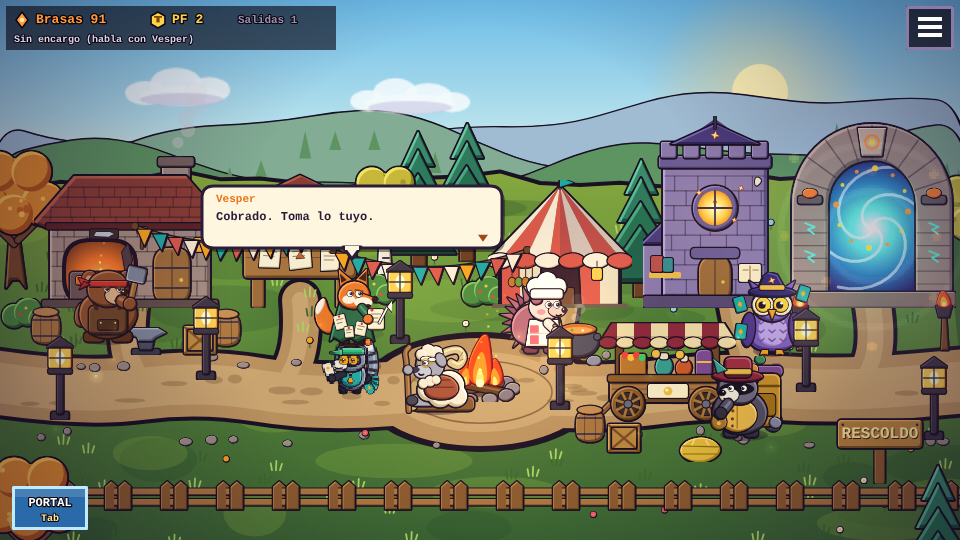
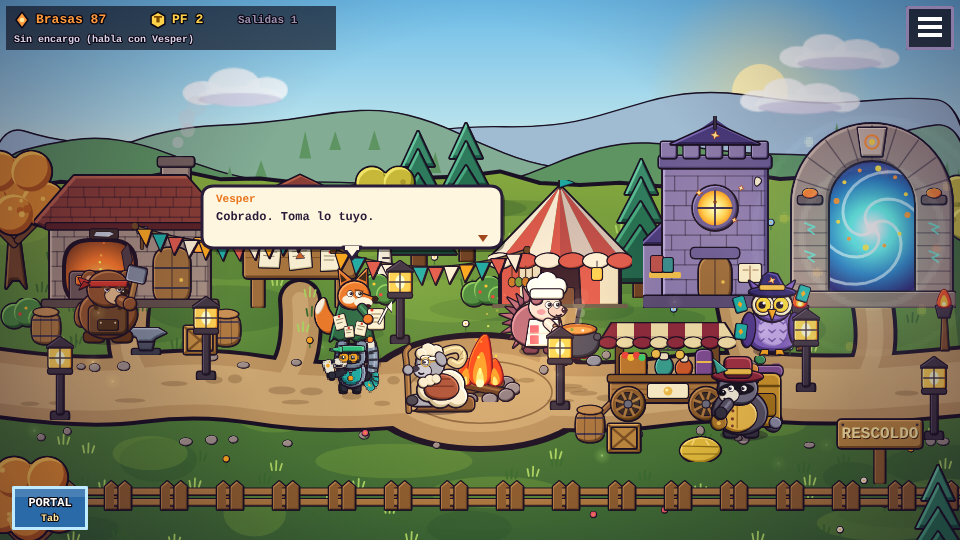
Swarm Hand: Fase 2a (aldea Rescoldo, árbol de Fuego, encargos, trueque, economía v2)
Claude-Session: https://claude.ai/code/session_01SEMe6xkUsnkQXVwvcKxXxh

diff --git a/games/card-swarm/src/loot.js b/games/card-swarm/src/loot.js
@@ -42,15 +42,14 @@
   L.RANK_MUL = [1, 1, 1.08, 1.16];   // multiplicador por rango de forja (0 bloqueada, I, II, III): +8 % por rango
   L.MAXRANK = 3;
 
-  // Suministro ESPERADO de cada parte por expedición estándar de 9:00, medido con el bot de pruebas (16 runs, ?speed=25 ?god=1, jugador que
-  // llega al jefe y lo mata; ~350 partes/run: 7 min = 78 %, 10 min = 110 %). La receta se expresa como fracción de ese suministro.
-  // v3: x0,42 (drops de 12-15 %). Con el bot (ver README) la Mecha de 9 min sale ~13, 7 min ~10.
+  // Suministro ESPERADO de cada parte por expedición estándar de 9:00 (v3: valores originales x0,42, ver DESIGN-v3-aldea.md C.3). Las recetas planas ("Clásica")
+  // se expresan como fracción de este suministro; los nodos del árbol usan L.NODE_TIER (cifras absolutas).
+  // MEDIDO con el bot (?speed=25 ?god=1, jugador que recoge partes y mata al jefe; 16 runs de 7 min, 10 de 9 min, política "build mínima primero"):
+  //   7 min: ~119 partes/run, Mecha 9,5 (objetivo 8-12), Hebra 52, Esencia ~2,1 (el Pastor da 1 segura), Brasas ~254.
+  //   9 min: ~148 partes/run, Mecha 12,8, Hebra 66, Esencia ~2,2, Brasas ~314. Un jugador real (se muere antes, recoge menos) saca ~x0,7.
+  //   Build mínima de Fuego (Chispa II, Bola de brasa, Rango II, Manto, Bola II = 6 PF, 52 Mecha): completa tras la 5.ª expedición del bot (6-7 con jugador real).
+  //   Árbol de Fuego completo (20 PF, ~170 Mecha): 15.ª expedición. Brasas sobran en esta fase (solo hay un árbol); Esencias tampoco limitan.
   L.EXPECT = { thread: 67, feather: 15, spine: 18, fang: 9, plate: 6, wick: 13, frost: 5.5, static: 7.6, rare: 1 };
-  // CUENTA ESPERADA (por qué salen 3-4 runs). La build "Tormenta tóxica" (Chispazo c + Tormenta e + Nube r + Bilis r + Cascabel r, todas por forjar)
-  // pide Jirón (static) 56 = 3.1 x el suministro de 18/run y Púa 93 = 2.2 x 43/run, más Hebra y Esencia sueltas: la parte limitante manda,
-  // ~3.1-3.5 runs medias + dispersión de los drops. Medido con el bot completo (forjando en el bucle, 24 builds): 5 forjas = 3.61 runs de media
-  // (todas entre 3 y 4), 4 forjas = 2.67. Brasas (~460/run) y Esencia (~5/run) NO limitan; limitan Jirón, Mecha, Placa y Púa según la build.
-  // Una run de 7 min da ~78 % de ese suministro y una de 10 min ~110 %. Un jugador que muera antes del jefe saca bastante menos (ver README).
 
   // Rareza de cada carta (c común, r rara, e épica). Las 6 iniciales (set básico) son gratis y solo cuestan sus mejoras de rango.
   L.TIER = {

diff --git a/games/card-swarm/src/base.js b/games/card-swarm/src/base.js
@@ -56,11 +56,11 @@
     G.txt(c, '+' + sm.brasas + ' Brasas   (total ' + S.brasas + ')', 548, 262, 16, '#ff9a3c', 'left');
     if (sm.rare) G.txt(c, '¡Esencia rara conseguida!', 516, 286, 13, '#e0a8ff', 'left');
     else G.txt(c, 'Prob. de Esencia rara: ' + ((L.RARE_P + S.pity) * 100).toFixed(1) + '%', 516, 286, 12, '#9a8fb0', 'left');
-    if (sm.quest) G.txt(c, 'Encargo: ' + sm.quest, 516, 304, 12, '#ffe9a0', 'left');
+    if (sm.quest) U.wrap(c, 'Encargo: ' + sm.quest, 410, 11).slice(0, 2).forEach(function (ln, k) { G.txt(c, ln, 516, 302 + k * 13, 11, '#ffe9a0', 'left'); });
     if (sm.pfGained) G.txt(c, '+' + sm.pfGained + ' Punto de Forja (primer élite)', 730, 286, 12, '#ffd24a', 'left');
-    G.txt(c, sm.newCards.length ? 'NUEVAS CARTAS YA FORJABLES (Clásica)' : 'PF libres ' + G.Tree.pfFree() + '  -  nodos comprables ' + G.Tree.availableCount(), 516, 322, 13, sm.newCards.length ? '#9dffb4' : '#9a8fb0', 'left');
+    G.txt(c, sm.newCards.length ? 'NUEVAS CARTAS YA FORJABLES (Clásica)' : 'PF libres ' + G.Tree.pfFree() + '  -  nodos comprables ' + G.Tree.availableCount(), 516, 336, 13, sm.newCards.length ? '#9dffb4' : '#9a8fb0', 'left');
     sm.newCards.slice(0, 6).forEach(function (id, k) {
-      G.Cards.drawCard(c, { id: id, lvl: 0 }, 516 + k * 68, 338, 56, 74, { nocd: true, glow: '#9dffb4' });
+      G.Cards.drawCard(c, { id: id, lvl: 0 }, 516 + k * 68, 348, 56, 74, { nocd: true, glow: '#9dffb4' });
     });
     U.button(c, END_RETRY, 'REINTENTAR MISMO BUILD', { size: 22, sub: 'R / Enter  -  anclas: ' + (S.anchors.map(function (a) { return G.Cards.def(a).short; }).join(' + ') || 'ninguna') });
     U.button(c, END_BASE, 'IR A LA ALDEA', { size: 22, color: '#2a6aa8', hot: '#3a8ad0', border: '#bfeaff', sub: 'B  -  forjar, encargos y anclas' });

diff --git a/games/card-swarm/README.md b/games/card-swarm/README.md
@@ -12,21 +12,49 @@ python3 -m http.server 8123
 ```
 (También funciona abriendo `index.html` directamente.)
 
-## Bucle completo (Fase 1 de crafteo)
-**Base -> Expedición -> Botín -> Forja -> Expedición.** La pantalla de título es ahora la **Base** (una página): colección de las 26 cartas (6 desbloqueadas de inicio: Chispa, Esquirla,
-Dardo, Daga, Colmillo, Reloj), forja con recetas, Rango I-III, 2 anclas, selector de duración y "SALIR A LA EXPEDICIÓN" (Enter). Repetir con el mismo loadout son 1-2 clics
-("REINTENTAR MISMO BUILD" en la pantalla de botín, o R / Enter). Todo se guarda solo en `localStorage` (`swarmhand.save`, esquema v1; botón BORRAR PROGRESO con doble pulsación).
-- **Anclas (Opción B híbrida):** la expedición parte con `G.B.anchorSlots = 2` cartas elegidas de tu colección ya en la mano; los otros 3 slots se llenan al subir de nivel con
-  ofertas aleatorias **solo de tus cartas desbloqueadas**. Cambiar a 3 anclas = cambiar ese número. Sin ningún arma entre las anclas, se ofrece la elección inicial de siempre.
-- **Duración:** selector 7 / 9 / 10 min en la Base (`?len=N` lo fuerza). `G.setLen()` escala jefe (a 5/6 de la run), élites, entrada de enemigos, curva del director, escalado de HP/daño
-  y Furia mediante `G.vt()` (tiempo "virtual" en escala de 9:00): una run corta es la misma curva comprimida y da menos botín (~78 % a 7 min, ~110 % a 10).
-- **Partes:** 8 comunes (Hebra, Pluma, Púa, Colmillo, Placa, Mecha, Escarcha, Jirón; 30-35 % por muerte según enemigo) + Esencia rara (3,5 % en Espectro/Ascua/Brujo, pity +1,5 % por run
-  sin rara, 35 % en élites, 1 segura del Pastor). Élites y jefe tienen partes garantizadas. Se recogen con el imán o se auto-recogen al terminar. El HUD muestra "Partes N".
-- **Brasas:** 20 % de la Ceniza sobrante + 15 por minuto jugado (+40 si ganas). Se gastan en recetas.
-- **Forja:** desbloquear carta (receta de 2-3 tipos de parte + Brasas; épicas piden Esencia) y subir Rango I -> II -> III (permanente): **+8 % de daño por rango, por carta**
-  (las pasivas escalan su efecto igual). Se multiplica con el -2 % global `cardDmgMul`.
-- **Balance de la meta:** todo en `src/loot.js` (drops, suministro esperado por run, costes por rareza, justificación de "3-4 runs" para la primera build completa).
-- Quedan fuera (Fases 2-3): sets/bonos, gemas, talismán, encargos, desmontar, partir partes. Ver `PROPUESTA-crafteo.md`.
+## Bucle completo (v3: Aldea, Fase 2a)
+**Aldea -> Portal -> Expedición -> Botín (R = repetir sin pasar por la aldea) -> Aldea.** La pantalla principal es **Rescoldo** (`src/aldea.js`), una aldea caminable de una pantalla
+(960x540, escala a cualquier tamaño). Marlo se mueve con WASD / flechas (o el joystick táctil flotante de la mitad izquierda), interactúa con **E / Enter** (o el botón táctil
+HABLAR de 96 px) a menos de 56 px de un NPC, y viaja al Portal con **Tab** (o el botón PORTAL) con un fundido de 0,3 s. Colisiones con los rectángulos de `Assets.VILLAGE.colliders`
+y los límites de la zona caminable. Esc abre el menú (Colección, Ajustes, Borrar progreso con doble pulsación). El arte viene de `assets_village.js` (`Assets.drawVillage`);
+si no existe, se dibuja un fallback de rectángulos. Luz: Día al abrir o tras ganar, Ocaso tras una derrota.
+- **Grum (herrero):** abre la **Forja** (`src/tree.js`), un árbol por pestañas: **Fuego** (12 nodos completos), **Tronco** (Rango de forja II/III, Ceniza viva, Tercera ancla,
+  Pezuñas/Imán/Alforja) y **Clásica** (recetas planas rebalanceadas para las cartas de Hielo, Rayo, Veneno, Sangre, Acero y el Reloj; los demás árboles llegan en la Fase 2b).
+- **Vesper (encargos):** Tablón con 3 encargos fijos (tutorial "Huele a chamusquina": 20 Bombas -> 6 Mecha + 40 Brasas + 1 PF; 40 Polillas; el Coloso Escudero). Solo uno activo; el progreso
+  persiste entre expediciones y se ve en el HUD de la run. El enemigo objetivo pesa **x2,5** en el director (`waves.js`) y su entrada se adelanta a 2:30 virtuales. Son repetibles.
+- **Rufo (mercader):** **Trueque** (3 partes comunes por 1; Hebra 6 por 1; cupo de 4 por expedición, se reinicia al volver de una salida), **Vender** (6 Brasas por parte, Hebra 3) y
+  **Comprar** (Tónico de ceniza 80: +40 Ceniza; Imán de bolsillo 120: radio x1,5; parte común 24, cupo 3). Las raras no se truecan ni se venden.
+- **Portal:** mano al salir (anclas), selector 7 / 9 / 10 min, encargo activo, compras pendientes y SALIR. Tras el botín: R reintenta el mismo build, B vuelve a la aldea.
+- **Ulalume (provisional):** colección de las 26 cartas y anclas (hasta que la Fase 2b añada loadouts). **Abuelo Lanudo** y **Tía Castaña**: diálogos de ambiente.
+- **Anclas:** `G.B.anchorSlots` = 2 (3 con el nodo Tercera ancla). Se eligen en el Archivo de Ulalume o en el Portal. Los otros slots se llenan al subir de nivel con cartas desbloqueadas.
+- **Duración:** 7 / 9 / 10 min (`?len=N` lo fuerza). `G.setLen()` escala jefe, élites, entrada de enemigos, curva del director, HP/daño y Furia mediante `G.vt()`.
+
+### Árbol de forja y Puntos de Forja (PF)
+- Cada nodo cuesta **PF + partes + Brasas** (tabla `L.NODE_TIER` en `loot.js`: T1 1 PF 10/5 partes 30 Brasas; T2 2 PF 16/7 60; T3 3 PF 24/9 100 + 1 Esencia; T4 4 PF 34/12 150 + 2 Esencias).
+  T2 pide **Rango de forja II** y T3/T4 **Rango III** (Tronco). Tipos: carta (C), mejora A/B (M, +1 rango de la carta), pasivo (P), rama excluyente (X: Cenizas ardientes o Fundición),
+  set (S: Emblema de Fuego) y maestría (Ma: Corazón de brasa, revive una vez por expedición). Un árbol de Fuego completo cuesta 20 PF.
+- **Techo de 24 PF** ganados (`L.PF_CAP`): builds duras. Fuentes: 1 de regalo, encargos (1-2), primer élite de cada tipo (+1) y cada 4 nodos distintos forjados (+1, "Maestría de oficio").
+  Compensación de 2 PF al migrar de v1.
+- **Reespecializar:** botón DESHACER en un nodo (él y sus dependientes: 40 Brasas por PF devuelto) o REESPECIALIZAR el árbol (250 Brasas); devuelve los PF y el **50 % de las partes**; el
+  **primer reespecializado es gratis**. Quitar un nodo de carta quita la carta de la colección y de las anclas. Los nodos heredados de v1 no se pueden deshacer.
+- Efectos reales en la run (`G.Tree.fx`, leídos por `cards.js`, `combat.js`, `weapons.js`, `player.js`): Pavesa (quemadura +2 s y +30 %), Ráfaga (cooldown de Chispa -15 %), Metralla (3 fragmentos de 8),
+  Napalm (suelo ardiente 2 s, 4 dps, radio 40), Pulmón (+8 % Fuego), Cenizas ardientes (fuego 3 s al morir un quemado), Fundición (escudo del Escudero x0,5 y +15 % a élites/jefe), Corona (3 llamas),
+  Cometa (órbita +25 % y +20 % daño), Emblema (3 cartas Fuego: +25 % daño; 4+: Pira, las quemaduras se propagan), Corazón de brasa, Ceniza viva (+20 Ceniza), Tercera ancla.
+- Teclas del panel: flechas mover, **F** forjar / elegir A, **G** elegir B, **U** deshacer nodo, **R** reespecializar, **Q/E** o 1-3 cambian de pestaña, Esc sale. Táctil: tocar un nodo lo selecciona,
+  deslizar en horizontal cambia de pestaña.
+
+### Economía (hotfix incluido, ver `DESIGN-v3-aldea.md` sección C y `src/loot.js`)
+- **Partes:** 8 comunes (Hebra, Pluma, Púa, Colmillo, Placa, Mecha, Escarcha, Jirón) con drops de **12-15 %** por muerte (antes 30-35 %) + Esencia rara (**0,8 %**, pity +0,4 % por run sin rara hasta +4 %;
+  élites 20 %; el Pastor da 1 segura). Garantías: Coloso 2 Placa + 1 Pluma, Madre Colmena 2 Púa + 2 Hebra, Pastor 2 Colmillo + 2 Hebra + 1 Pluma.
+- **Brasas:** 12 % de la Ceniza sobrante + 10 por minuto (+40 si ganas). `L.EXPECT` x0,42.
+- **Guardado v2** (`swarmhand.save`, `src/save.js`): partes, Brasas, rangos, anclas, PF, nodos y elecciones, encargos, cupos de Rufo, compras pendientes, flags. Migración automática desde v1 sin perder
+  progreso; si el guardado está corrupto, se empieza de cero sin romper (try/catch).
+- **Medido con el bot** (`?speed=25&god=1`, jugador que recoge partes y mata al jefe; 16 runs de 7 min y 10 de 9 min con la política "build mínima primero"): 7 min = **119 partes/run, 9,5 Mecha,
+  ~2,1 Esencias** (el Pastor suma 1), ~254 Brasas; 9 min = 148 partes/run, 12,8 Mecha, ~314 Brasas. Con un jugador real (x0,7) salen ~7 Mecha por run de 7 min. Build mínima (Chispa II, Bola de brasa, Rango II,
+  Manto de ceniza, Bola II) completa tras la **5.ª expedición** del bot (teórico; ~6-7 con un jugador que a veces muere); árbol de Fuego completo (13 nodos) tras la 15.ª. Los PF llegan a ~1,3 por run con encargos.
+
+## Teclas de la forja anterior
+La Base de una página (`base.js`) ya no existe como pantalla: `base.js` conserva el botín y el lanzador; la colección vive en el Archivo.
 
 ## Cómo se juega
 - Muévete esquivando al enjambre. Las cartas atacan solas; cada una muestra su cooldown girando.
@@ -46,8 +74,9 @@ Dardo, Daga, Colmillo, Reloj), forja con recetas, Rango I-III, 2 anclas, selecto
 | Slot a reemplazar con la mano llena | 1..5 o clic (Esc cancela) |
 | Pausa | P / Esc |
 | Reintentar mismo build (pantalla final) | R / Enter / botón |
-| Ir a la Base desde el botín | B / Esc / botón |
-| Base: elegir carta / forjar / ancla / salir | clic o flechas / F / E / Enter |
+| Ir a la Aldea desde el botín | B / Esc / botón |
+| Aldea: mover / hablar / portal / menú | WASD o flechas / E o Enter / Tab / Esc |
+| Táctil | toque = clic; joystick flotante a la izquierda (aldea y expedición); botón HABLAR 96 px; deslizar = cambiar pestaña |
 
 ## Contenido
 - 26 cartas (16 de ataque + 10 pasivas; el GDD original listaba 28, Bobina y Murciélago no se implementaron), 6 etiquetas (Fuego, Hielo, Rayo, Veneno, Sangre, Acero) + Neutro.
@@ -74,9 +103,9 @@ Dardo, Daga, Colmillo, Reloj), forja con recetas, Rango I-III, 2 anclas, selecto
 - `?dbg=1` cuenta el daño recibido por fuente en `G.dbg.dmg` (consola) para ajustar el balance. Combínalo con `?god=1&speed=4` para recorrer la run entera.
 - Consola: `G.Enemies.spawn('blinker', x, y)` crea cualquier tipo (`fanner shield moth sower blinker scorcher mini_bulwark mini_hive boss`).
 - `?biome=cripta|asfodelo` cambia el fondo.
-- `?reset=1` borra el guardado. `?give=wick:20,frost:5,brasas:100` (o `all:30`) añade partes/Brasas; partes: `thread feather spine fang plate wick frost static rare`.
+- `?reset=1` borra el guardado (ojo: se borra en cada recarga mientras esté en la URL). `?pf=<n>` añade Puntos de Forja (techo 24). `?give=wick:20,frost:5,brasas:100` (o `all:30`) añade partes/Brasas; partes: `thread feather spine fang plate wick frost static rare`.
 - `?len=7` fuerza la duración de la run en minutos (sin tocar el guardado).
 
 ## Estructura
 `src/main.js` núcleo y balance (`G.B`: tabla de enemigos con coste, peso, entrada y `maxAlive`) · `player.js` (ralentización `p.slowT`) · `enemies.js` (IA, zonas `G.zones` con `team:'e'`, telegrafías) · `waves.js` (director) · `combat.js` (daño, estados, combos, gemas) ·
-`weapons.js` (armas auto-fire) · `cards.js` (catálogo, mano, oferta filtrada por colección, anclas, dibujo de cartas) · `loot.js` (tabla de balance de botín/forja) · `save.js` (localStorage) · `base.js` (Base y pantalla de botín) · `assets_ui.js` (iconos de partes y botones por código) · `hud.js` · `fx.js` · `sfx.js` (SFX por etiqueta y stinger) · `assets.js` (arte y audio procedural; ver `ASSETS_API.md`).
+`weapons.js` (armas auto-fire) · `cards.js` (catálogo, mano, oferta filtrada por colección, anclas, dibujo de cartas) · `loot.js` (tabla de balance de botín/forja) · `save.js` (localStorage v2 con migración) · `aldea.js` (aldea, NPCs, movimiento) · `dialog.js` (burbujas) · `panels.js` (Tablón, Rufo, Portal, Archivo, menú) · `tree.js` (árbol de forja) · `quests.js` (encargos) · `base.js` (pantalla de botín y lanzador) · `assets_village.js` (arte de la aldea) · `assets_ui.js` (iconos de partes y botones por código) · `hud.js` · `fx.js` · `sfx.js` (SFX por etiqueta y stinger) · `assets.js` (arte y audio procedural; ver `ASSETS_API.md`).

diff --git a/studio/docs/ROADMAP.md b/studio/docs/ROADMAP.md
@@ -10,3 +10,5 @@
 - [ ] Playtest humano y balance de Swarm Hand
 - [x] Crafteo Fase 1 (Base, forja, botin, anclas) en games/card-swarm
 - [ ] Playtest humano de la Fase 1; decidir Fase 2 (sets, encargos, desmontar) y version movil
+- [x] Fase 2a: aldea Rescoldo, arbol de Fuego, economia v2
+- [ ] Jefes J1 (Pastor rediseñado): arte en curso, logica pendiente
